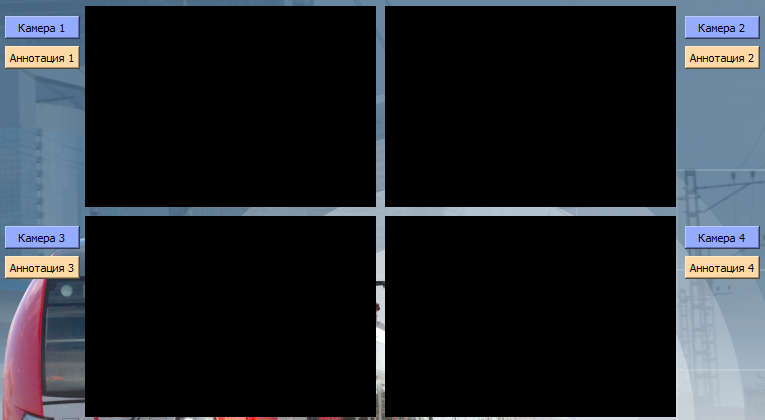
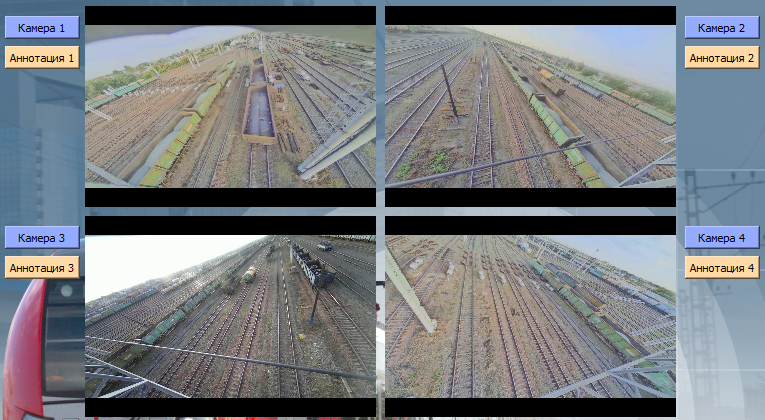
Тестовое 2

diff --git a/main.py b/main.py
@@ -1,20 +1,23 @@
+import cv2
 import pyscreenshot
 import telegram
 from PyQt5 import uic, QtGui
 from PyQt5.QtCore import QUrl
 from PyQt5.QtMultimedia import QMediaPlayer, QMediaContent
-from PyQt5.QtWidgets import QApplication, QMainWindow, QFileDialog, QStyle
+from PyQt5.QtWidgets import (QApplication, QMainWindow, QFileDialog,
+                             QStyle, QMessageBox)
 
+import os
 import sys
+import shutil
 
 from images import res_rc  # для отображения фона MainWindow
 
 SCREEN_RESOLUTION = '1920x1080'  # <--- Укажите своё разрешение экрана
-
 TELEGRAM_TOKEN = '6325628094:AAGQgXOnMTdKVx_G3uHFxaSAkZbTAqdq2GQ'
 BBOX = {'1920x1080': (575, 240, 1340, 660),
         '1440x1080': (335, 240, 1100, 660)}
-
+FRAMESIZE, FPS = (1280, 720), 5
 bot = telegram.Bot(token=TELEGRAM_TOKEN)
 
 
@@ -27,23 +30,25 @@ class MainWindow(QMainWindow):
         # настройка медиапроигрывателей 4шт.
         self.media1 = QMediaPlayer(self)
         self.media1.setVideoOutput(self.Video1)
-        self.Camera1.clicked.connect(lambda: self.open(
-            self.media1, self.Camera1))
-        self.media1.stateChanged.connect(self.play_btn_changed)
-        self.media1.positionChanged.connect(self.position_changed_slider)
-        self.media1.durationChanged.connect(self.duration_changed_slider)
+        self.Camera1.clicked.connect(lambda: self.open_media(self.Camera1))
+        self.Annot1.clicked.connect(lambda: self.open_txt(self.Annot1))
         self.media2 = QMediaPlayer(self)
         self.media2.setVideoOutput(self.Video2)
-        self.Camera2.clicked.connect(lambda: self.open(
-            self.media2, self.Camera2))
+        self.Camera2.clicked.connect(lambda: self.open_media(self.Camera2))
+        self.Annot2.clicked.connect(lambda: self.open_txt(self.Annot2))
         self.media3 = QMediaPlayer(self)
         self.media3.setVideoOutput(self.Video3)
-        self.Camera3.clicked.connect(lambda: self.open(
-            self.media3, self.Camera3))
+        self.Camera3.clicked.connect(lambda: self.open_media(self.Camera3))
+        self.Annot3.clicked.connect(lambda: self.open_txt(self.Annot3))
         self.media4 = QMediaPlayer(self)
         self.media4.setVideoOutput(self.Video4)
-        self.Camera4.clicked.connect(lambda: self.open(
-            self.media4, self.Camera4))
+        self.Camera4.clicked.connect(lambda: self.open_media(self.Camera4))
+        self.Annot4.clicked.connect(lambda: self.open_txt(self.Annot4))
+        self.media4.stateChanged.connect(self.play_btn_changed)
+        self.media4.positionChanged.connect(self.position_changed_slider)
+        self.media4.durationChanged.connect(self.duration_changed_slider)
+        # настройка кнопки SynchBtn
+        self.SynchBtn.clicked.connect(lambda: self.synch_videos())
         # настройка кнопки Start/Stop
         self.Play.setIcon(self.style().standardIcon(QStyle.SP_MediaPlay))
         self.Play.clicked.connect(self.plays)
@@ -62,16 +67,113 @@ class MainWindow(QMainWindow):
         self.Label.setPixmap(QtGui.QPixmap(":/background_image.png"))
         self.Label.setScaledContents(True)
 
-    def open(self, media, widget):
+    def open_media(self, widget):
         "Выбрать видеофайл"
         file = QFileDialog.getOpenFileName(
             self, 'Выберите видеофайл', '.',
-            'Video Files (*.mp4 *.flv *.ts *.mts *.avi)')
+            'Video File (*.mp4 *.flv *.ts *.mts *.avi)')
         if file:
             widget.setStyleSheet(
                 'background-color: rgb(50, 255, 50);')
-            media.setMedia(QMediaContent(QUrl.fromLocalFile(file[0])))
-            self.Play.setEnabled(True)
+            shutil.copy(file[0], 'media/videos')
+
+    def open_txt(self, widget):
+        "Выбрать файл аннотации"
+        file = QFileDialog.getOpenFileName(
+            self, 'Выберите файл с аннотацией', '.',
+            '.txt File (*.txt)')
+        if file:
+            widget.setStyleSheet(
+                'background-color: rgb(50, 255, 50);')
+            shutil.copy(file[0], 'media/annotations')
+
+    def synch_videos(self):
+        "Синхронизация 4 видео по временным меткам из файлов аннотации"
+        def file_read(file):
+            "Чтение данных из файла в generator"
+            with open(f'media/annotations/{file}', 'r') as file:
+                lines = file.readlines()
+                return (line.strip() for line in lines)
+
+        msg = QMessageBox()
+        msg.setWindowTitle('Статус синхронизации:')
+        msg.setText('Подождите окончания синхронизации видео...')
+        msg.show()
+        msg.exec_()
+        # открываем видеозаписи и читаем к ним аннотации
+        camera1, camera2, camera3, camera4 = (
+            cv2.VideoCapture(
+                f'media/videos/{file}') for file in os.listdir('media/videos'))
+        annotation1, annotation2, annotation3, annotation4 = (
+            file_read(file) for file in os.listdir('media/annotations'))
+        # получаем общее кол-во кадров в самом маленьком видео из 4-х
+        frame_count = min(camera1.get(cv2.CAP_PROP_FRAME_COUNT),
+                          camera2.get(cv2.CAP_PROP_FRAME_COUNT),
+                          camera3.get(cv2.CAP_PROP_FRAME_COUNT),
+                          camera4.get(cv2.CAP_PROP_FRAME_COUNT))
+        screen_annotation1 = float(next(annotation1))
+        screen_annotation2 = float(next(annotation2))
+        screen_annotation3 = float(next(annotation3))
+        screen_annotation4 = float(next(annotation4))
+        # создаём видеозаписыватели для записи видео из получившихся кадров
+        frameSize, fps = (1280, 720), 5
+        out1, out2, out3, out4 = (
+            cv2.VideoWriter(f'media/new_videos/new - {i}.avi',
+                            cv2.VideoWriter_fourcc('M', 'J', 'P', 'G'),
+                            fps, frameSize) for i in range(1, 5))
+        counter = 0
+        while counter < frame_count:
+            # 4-я камера будет ведущей, т.к. она имеет наибольшее первое
+            # значение аннотации
+            _, camera4_image = camera4.read()
+            cv2.imwrite(
+                f'media/frames/camera4/{screen_annotation4} - {counter}.jpg',
+                camera4_image)
+            out4.write(camera4_image)
+            while screen_annotation1 < screen_annotation4:
+                screen_annotation1 = float(annotation1.__next__())
+                _, camera1_image = camera1.read()
+            cv2.imwrite(
+                f"media/frames/camera1/{screen_annotation1} - {counter}.jpg",
+                camera1_image)
+            out1.write(camera1_image)
+            while screen_annotation2 < screen_annotation4:
+                screen_annotation2 = float(annotation2.__next__())
+                _, camera2_image = camera2.read()
+            cv2.imwrite(
+                f"media/frames/camera2/{screen_annotation2} - {counter}.jpg",
+                camera2_image)
+            out2.write(camera2_image)
+            while screen_annotation3 < screen_annotation4:
+                screen_annotation3 = float(annotation3.__next__())
+                _, camera3_image = camera3.read()
+            cv2.imwrite(
+                f"media/frames/camera3/{screen_annotation3} - {counter}.jpg",
+                camera3_image)
+            out3.write(camera3_image)
+            counter += 1
+            screen_annotation4 = float(next(annotation4))
+        camera1.release()
+        camera2.release()
+        camera3.release()
+        camera4.release()
+        out1.release()
+        out2.release()
+        out3.release()
+        out4.release()
+        cv2.destroyAllWindows()
+        self.media1.setMedia(QMediaContent(
+            QUrl.fromLocalFile('media/new_videos/new - 1.avi')))
+        self.media2.setMedia(QMediaContent(
+            QUrl.fromLocalFile('media/new_videos/new - 2.avi')))
+        self.media3.setMedia(QMediaContent(
+            QUrl.fromLocalFile('media/new_videos/new - 3.avi')))
+        self.media4.setMedia(QMediaContent(
+            QUrl.fromLocalFile('media/new_videos/new - 4.avi')))
+        self.Play.setEnabled(True)
+        msg.setText('Синхронизация видео выполнена успешно!')
+        msg.show()
+        msg.exec_()
 
     def plays(self):
         "Воспроизвести/остановить видео с 4-х камер"
@@ -90,6 +192,10 @@ class MainWindow(QMainWindow):
             self.Camera2.setStyleSheet(color)
             self.Camera3.setStyleSheet(color)
             self.Camera4.setStyleSheet(color)
+            self.Annot1.setStyleSheet(color)
+            self.Annot2.setStyleSheet(color)
+            self.Annot3.setStyleSheet(color)
+            self.Annot4.setStyleSheet(color)
 
     def play_btn_changed(self):
         "Корректное отображение кнопки Start/Stop"
